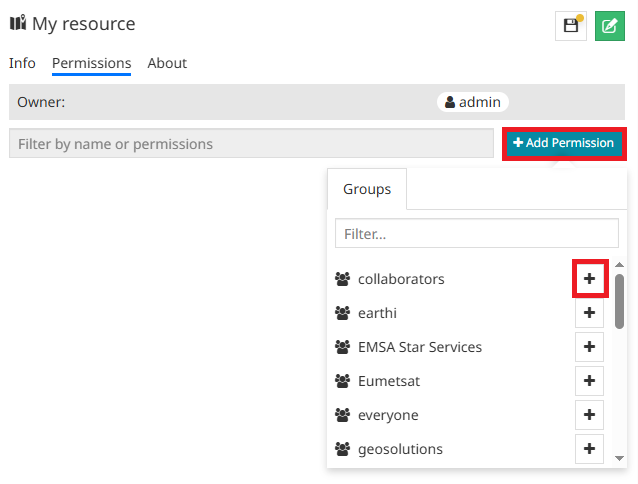
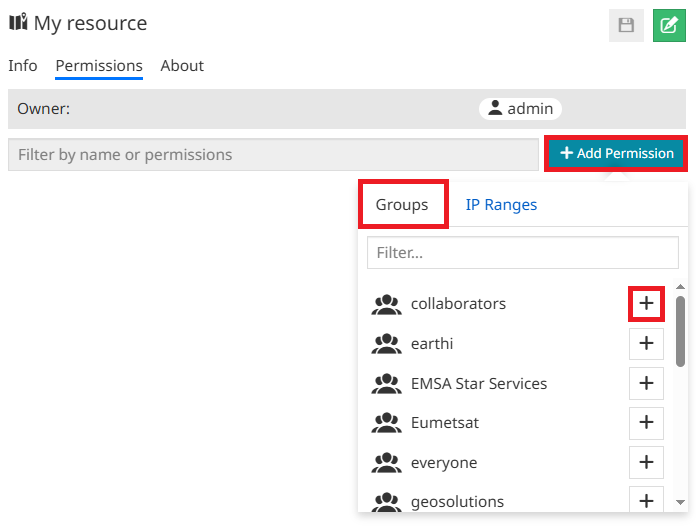
Update User Guide - Access to MapStore resources by IP (#11771) (#11775)
* add_11705

* Update docs/user-guide/resources-properties.md

* Update docs/user-guide/resources-properties.md

* Update docs/user-guide/ip-ranges.md

!!! Warning
When both **Group** and **IP Range** permission rules are defined for a *MapStore* resource, the **group rules have priority**. For example, if a user belongs to a group with *Edit permissions* on a resource and is also within an IP range that has only *View permissions*, the user will still have Edit rights on that resource.

* Update docs/user-guide/ip-ranges.md

---------

(cherry picked from commit e998acf438a7532ce481f338bd505a3fabd899db)

diff --git a/docs/user-guide/resources-properties.md b/docs/user-guide/resources-properties.md
@@ -44,25 +44,36 @@ Admin users can also see who created and modified the resource. An example in th
 
 ## Permission rules
 
-From the **Permissions** tab, the users with the necessary permissions can set one or more permission rules in order to allow a group to access the resource. In particular it is possible to choose between a particular group of authenticated users or the *everyone* group that includes all authenticated users but also anonymous users (more information about different user types can be found in [Homepage](home-page.md#home-page) section). <br>
-Moreover it is possible to choose between two different ways with which the selected group can approach the resource:
+From the **Permissions** tab, users with the necessary permissions can define one or more rules to grant access to a resource for a specific group or IP range. In particular, it is possible to:
+
+* Select a specific group of authenticated users, or the *everyone* group, which includes all authenticated users as well as anonymous users (for more information about different user types, see the [Homepage](home-page.md#home-page) section).
+
+* Grant access to a specific IP range.
+
+Moreover, it is possible to choose between two different permission types with which the selected group/s or IP range/s can access the resource:
 
 * *View* the resource and save a copy
 
-* *Edit* the resource and re-save it
+* *Edit* the resource and save it
 
-In order to add a rule, the user can click the **Add Permissions** <img src="../img/button/add-rules.jpg" class="ms-docbutton"/> button that open a **Groups** pop-up in witch the user can add to the *Permissions Groups* list a group through the <img src="../img/button/++++.jpg" class="ms-docbutton"/> button.
+In order to add a rule, the user can click the **Add Permissions** <img src="../img/button/add-rules.jpg" class="ms-docbutton"/> button that open a permissions pop-up in witch the user can:
+
+* From the **Groups** tab, select a group from the list and add it using the <img src="../img/button/++++.jpg" class="ms-docbutton"/> button
 
 <img src="../img/resource-properties/rule_added.jpg" class="ms-docimage" style="max-width:600px;" />
 
-Once the selected group is on the *Permissions Groups* list, the user can choose between *View* and *Edit* permission option.
+* From the **IP Ranges** tab, select an IP range from the list and add it using the <img src="../img/button/++++.jpg" class="ms-docbutton"/> button
+
+<img src="../img/resource-properties/ip_rule_added.jpg" class="ms-docimage" style="max-width:600px;" />
+
+Once the rule is on the permissions list, the user can choose between *View* and *Edit* permission option.
 
 <img src="../img/resource-properties/rule_added_example.jpg" class="ms-docimage" style="max-width:600px;" />
 
 Once a rule is set, the user can always remove it from the list through the **Remove** <img src="../img/button/remove-button.jpg" class="ms-docbutton"/> button or save the changes made using the **Save** <img src="../img/button/save_changes_button.jpg" class="ms-docbutton"/> button. <br>
 
 !!! note
-    How to manage users and groups is a topic present in the [Managing Users](managing-users.md#managing-users) and [Managing Groups](managing-groups.md#managing-groups) sections.
+    Instructions on managing users, groups or IP ranges can be found in the [Managing Users](managing-users.md#managing-users), [Managing Groups](managing-groups.md#managing-groups) and [Managing IP Ranges](ip-ranges.md) sections.
 
 ## Details
 

diff --git a/docs/user-guide/ip-ranges.md b/docs/user-guide/ip-ranges.md
@@ -1,0 +1,28 @@
+# Managing IP Ranges
+
+*******************
+
+In [MapStore](https://mapstore.geosolutionsgroup.com/mapstore/#/), the **IP Ranges Manager** is an administrative tool designed to manage IP Ranges used as an access control method for resources. Administrative users can assign one or more existing IP ranges to a resource through the [Permission Rules](resources-properties.md#permission-rules) properties, allowing access based on specific IP addresses.
+
+As an admin user, it is possible to manage **IP Ranges** by selecting **Manage IP Ranges** option from the <img src="../img/button/logged.jpg" class="ms-docbutton"/> button on the [Homepage](home-page.md#home-page):
+
+<img src="../img/ip-ranges/ip-ranges-manager.jpg" class="ms-docimage" style="max-width:500px;"/>
+
+The *Manager* page opens on **IP Ranges** tab, allowing the admin user to:
+
+<img src="../img/ip-ranges/ip-ranges-panel.jpg" class="ms-docimage" />
+
+* Create a **New IP Ranges** through the <img src="../img/button/new_ip-ranges_button.jpg" class="ms-docbutton"/> button and customize it by adding a *IP Range (CIDR format)* and a *Description*.
+
+<img src="../img/ip-ranges/new_ip-ranges.jpg" class="ms-docimage" />
+
+* **Search** for a tag using the search bar
+
+<img src="../img/ip-ranges/search_ip-ranges.jpg" class="ms-docimage" />
+
+* **Edit** a tag through the <img src="../img/button/edit_properties.jpg" class="ms-docbutton"/> button next to each tag in the list.
+
+* **Remove** a tag through the <img src="../img/button/delete2.jpg" class="ms-docbutton"/> button next to each tag in the list.
+
+!!! Warning
+    When both *Groups* and *IP Range* permission rules are defined for a MapStore resource, **the group rules have priority**. For example, if a user belongs to a group with *Edit* permissions on a resource but is also within an IP range that has only *View* permissions, the user will still have *Edit* rights for that resource.

diff --git a/docs/user-guide/managing-users-and-groups.md b/docs/user-guide/managing-users-and-groups.md
@@ -26,8 +26,10 @@ Once logged in as Admin, it becomes possible to manage users and groups, and the
 
 <img src="../img/managing-users-and-groups/manager.jpg" class="ms-docimage" style="max-width:300px"/>
 
-Selecting **Manage Accounts** options, the *Account Manager* opens:
+Selecting **Manage Accounts** options, the [Manage Users](managing-users.md#managing-users) tab opens:
 
 <img src="../img/managing-users-and-groups/manager-page.jpg" class="ms-docimage"/>
 
-In this page it is possible to switch between [Manage Users](managing-users.md#managing-users) or [Manage Groups](managing-groups.md#managing-groups) tab.
+Selecting **Manage Groups** options, , the [Manage Groups](managing-groups.md#managing-groups) tab opens:
+
+<img src="../img/managing-users-and-groups/manage-groups.jpg" class="ms-docimage"/>
